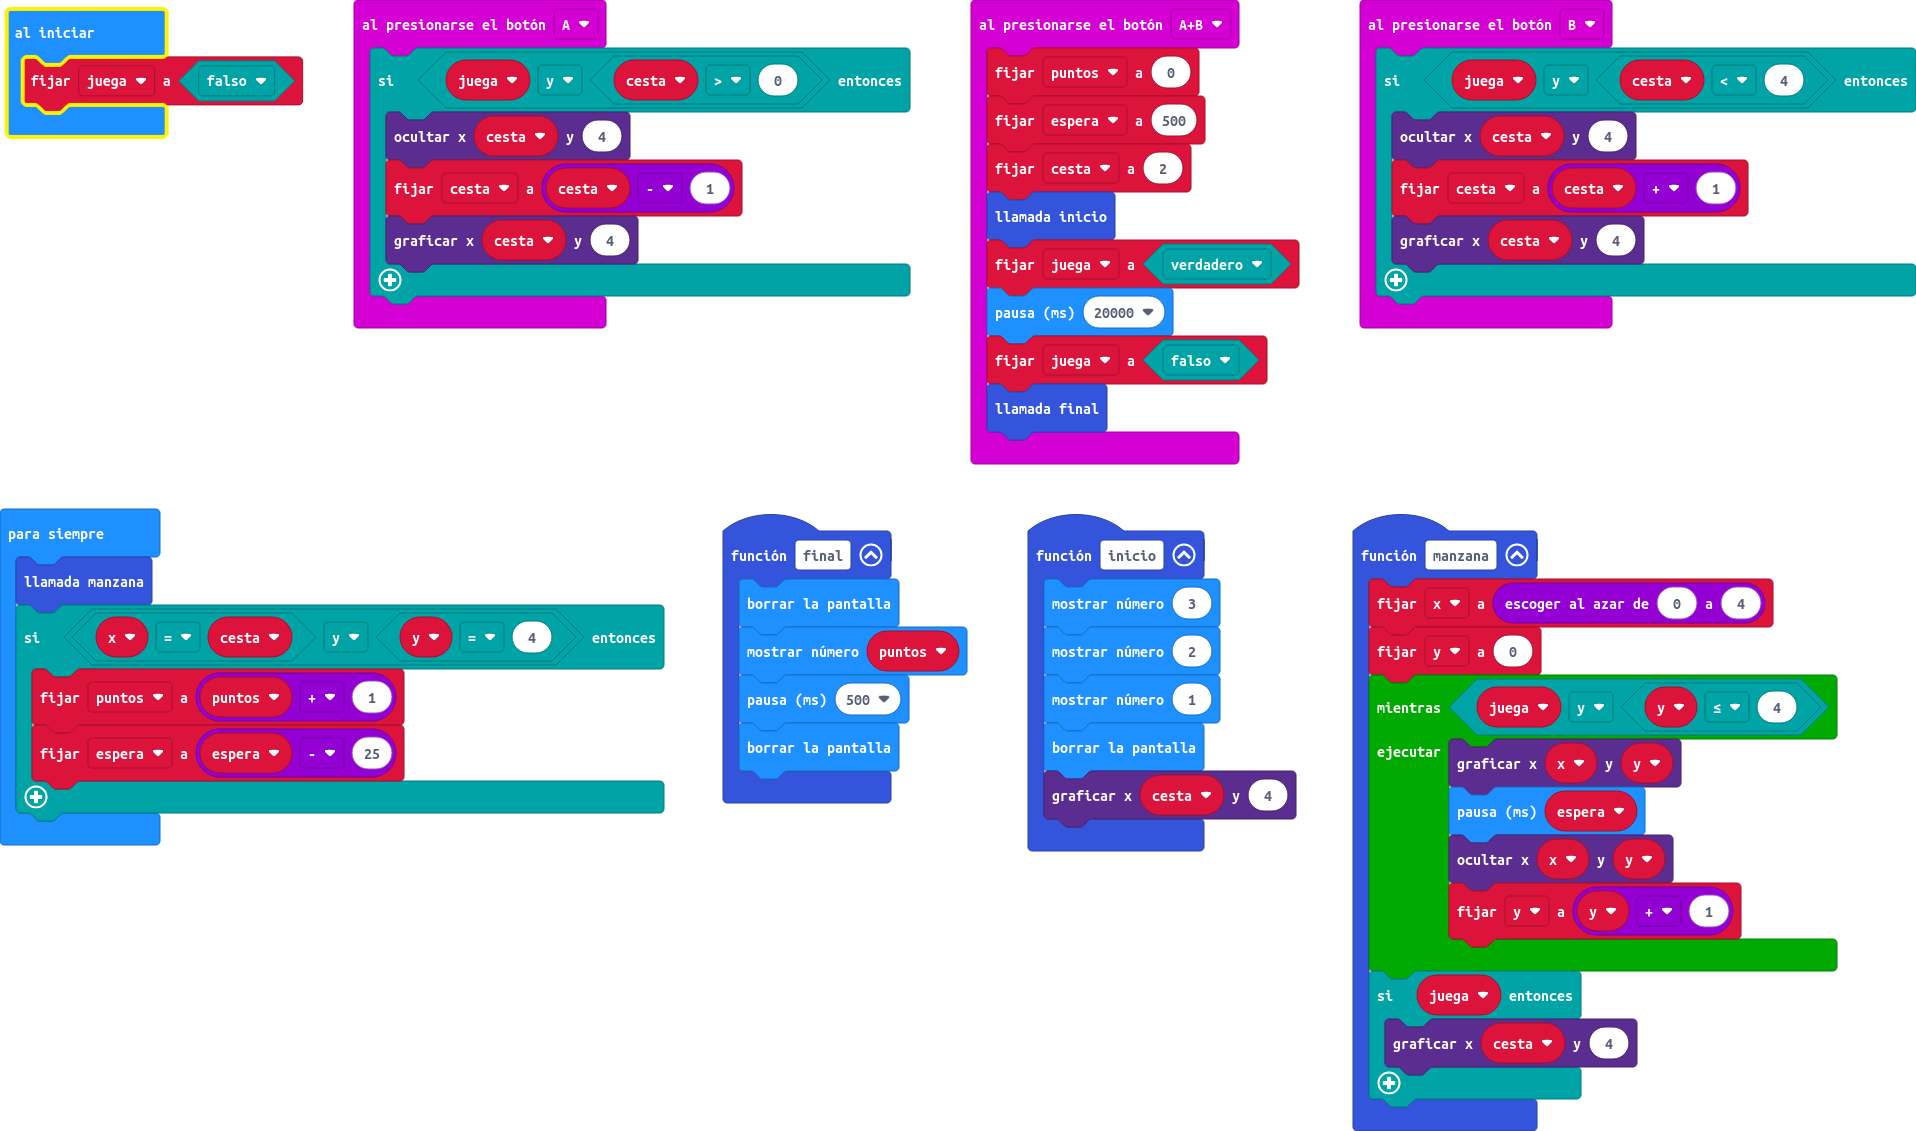
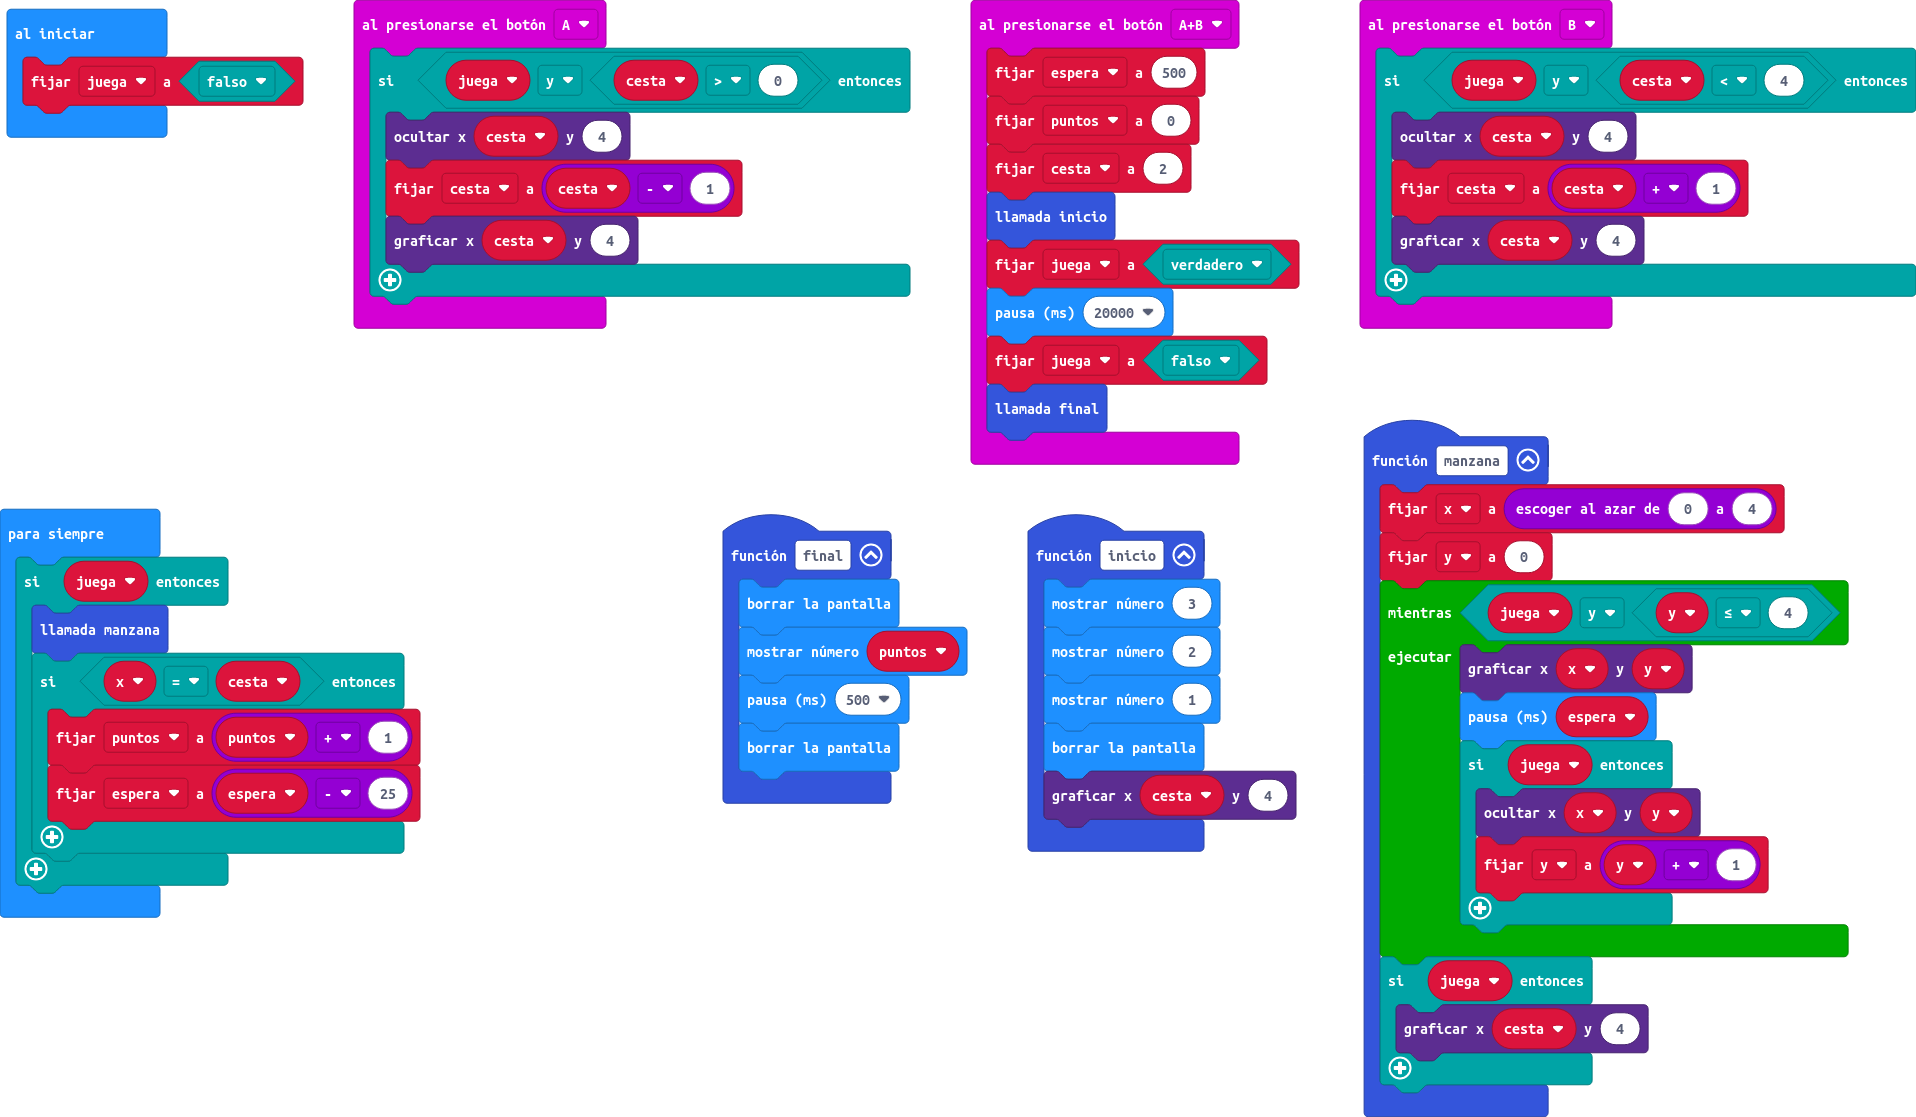
Actualizar main.blocks, main.ts

diff --git a/main.ts b/main.ts
@@ -19,8 +19,8 @@ function inicio () {
     led.plot(cesta, 4)
 }
 input.onButtonPressed(Button.AB, function () {
-    puntos = 0
     espera = 500
+    puntos = 0
     cesta = 2
     inicio()
     juega = true
@@ -41,8 +41,10 @@ function manzana () {
     while (juega && y <= 4) {
         led.plot(x, y)
         basic.pause(espera)
-        led.unplot(x, y)
-        y = y + 1
+        if (juega) {
+            led.unplot(x, y)
+            y = y + 1
+        }
     }
     if (juega) {
         led.plot(cesta, 4)
@@ -56,9 +58,11 @@ let puntos = 0
 let juega = false
 juega = false
 basic.forever(function () {
-    manzana()
-    if (x == cesta && y == 4) {
-        puntos = puntos + 1
-        espera = espera - 25
+    if (juega) {
+        manzana()
+        if (x == cesta) {
+            puntos = puntos + 1
+            espera = espera - 25
+        }
     }
 })
